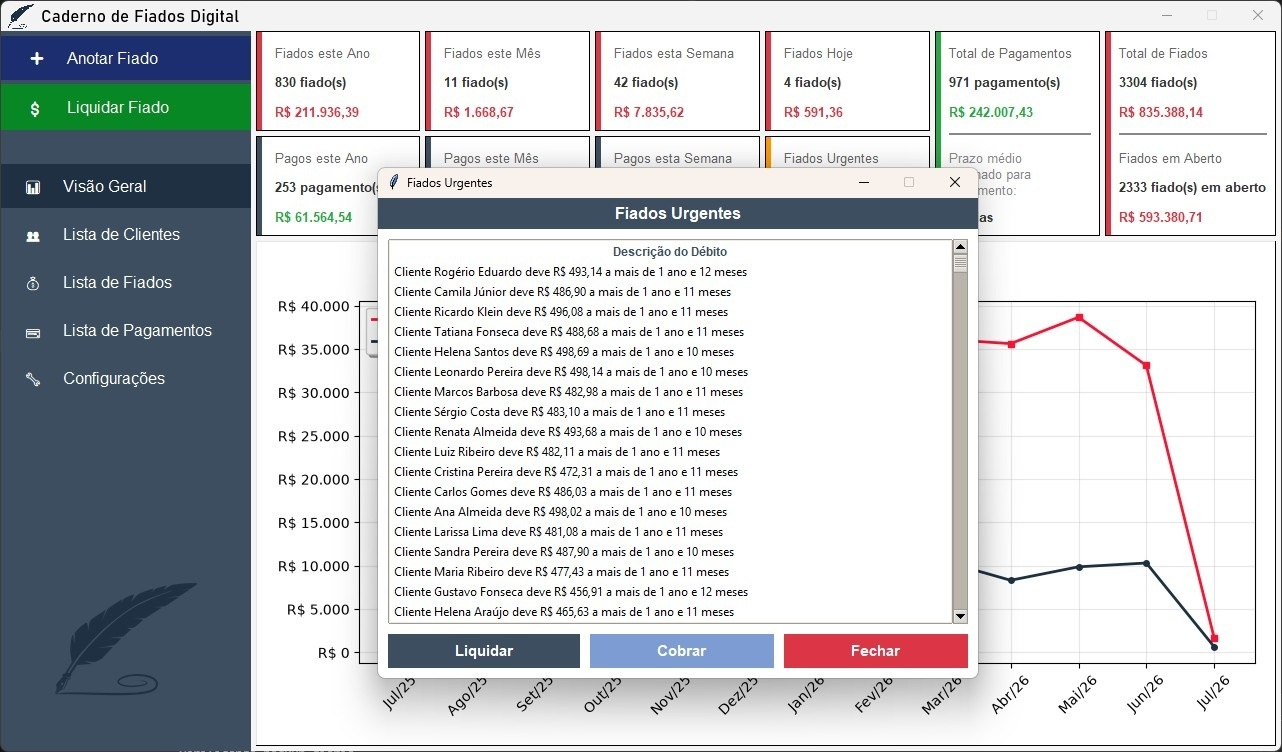
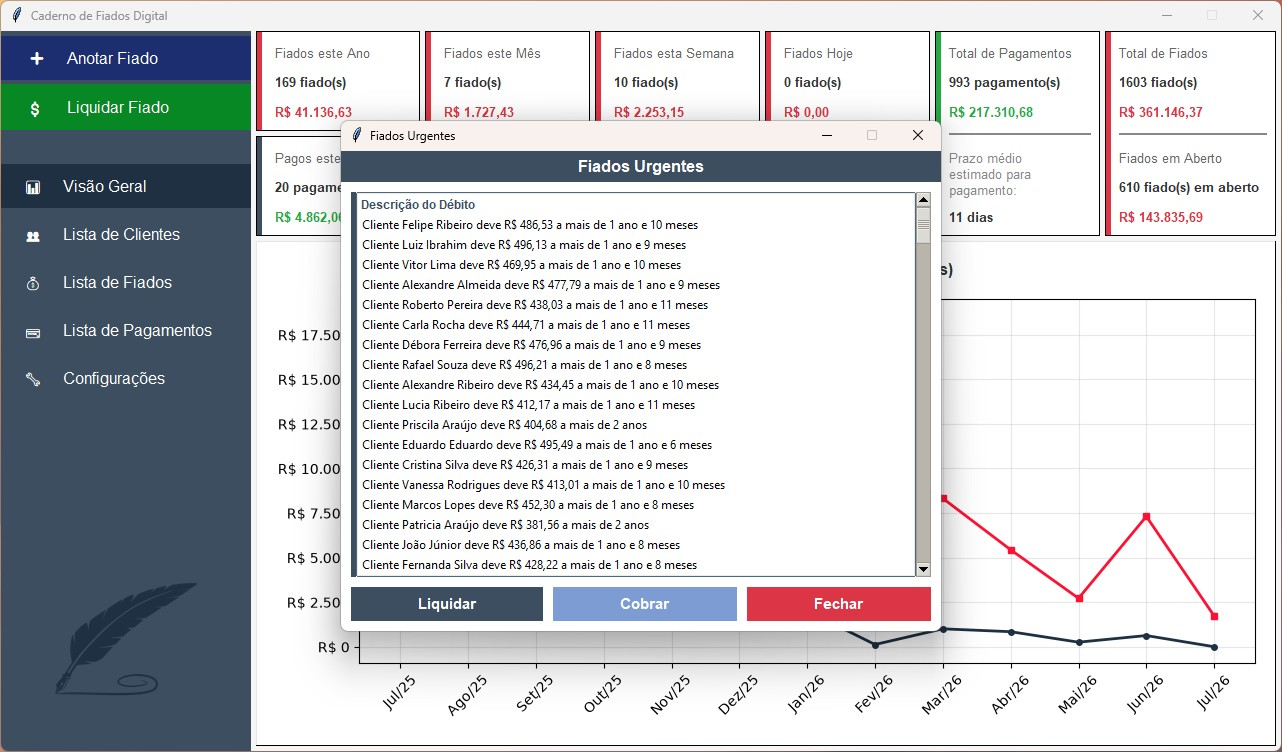
254

diff --git a/cadernodefiadosdigital/index.html b/cadernodefiadosdigital/index.html
@@ -275,7 +275,7 @@
 
     <section class="hero">
         <div class="hero-content">
-            <h1>Nunca mais perca dinheiro ao vender fiado.</h1>
+            <h1>Diga adeus ao caderninho.</h1>
             <p>Monitore dívidas, organize sua lista de clientes e envie cobranças pré-configuradas pelo WhatsApp e e-mail em poucos cliques. Simples, seguro e <span id="funciona-sem-internet" style="font-weight: bold; color: #28A745;">funciona sem internet</span>.</p>
             <div class="ctas">
                 <button class="btn btn-primary" onclick="baixarAplicativo()">Baixar Teste <img src="../imagens/windows.png" alt="Download" style="height: 20px; width: auto; margin-left: 10px;"></button>
@@ -289,21 +289,21 @@
 
     <section class="feature alternate">
         <div class="feature-text">
-            <h2>Gestão de Crediário Inteligente</h2>
-            <p>Registre um fiado, liquide total ou parcialmente, ou quite todos os débitos de um cliente de uma vez. Visualize tendências, gráficos e históricos.</p>
+            <h2>Cobranças Via WhatsApp e E-mail</h2>
+            <p>Clique duas vezes no número de celular ou e-mail para abrir o WhatsApp ou o Outlook com mensagem de cobrança automática, contendo dados do cliente e valor em aberto.</p>
             <div class="ctas">
                 <button class="btn btn-primary" onclick="baixarAplicativo()">Baixar Teste <img src="../imagens/windows.png" alt="Download" style="height: 20px; width: auto; margin-left: 10px;"></button>
                 <button class="btn btn-secondary" onclick="iniciarCompra()">Comprar Chave <img src="../imagens/carrinho.png" alt="Comprar" style="height: 20px; width: auto; margin-left: 10px;"></button>
             </div>
         </div>
-        <div class="feature-image"><img src="../imagens/lista_fiados.jpg" alt="Lista de Fiados"></div>
+        <div class="feature-image"><img src="../imagens/mensagem_cobranca.jpg" alt="Mensagem de Cobrança"></div>
     </section>
 
     <section class="feature">
-        <div class="feature-image"><img src="../imagens/mensagem_cobranca.jpg" alt="Mensagem de Cobrança"></div>
+        <div class="feature-image"><img src="../imagens/lista_fiados.jpg" alt="Lista de Fiados"></div>
         <div class="feature-text">
-            <h2>Cobranças Via WhatsApp e E-mail</h2>
-            <p>Clique duas vezes no número de celular ou e-mail para abrir o WhatsApp ou o Outlook com mensagem de cobrança automática, contendo dados do cliente e valor em aberto.</p>
+            <h2>Gestão de Crediário Inteligente</h2>
+            <p>Registre um fiado, liquide total ou parcialmente, ou quite todos os débitos de um cliente de uma vez. Visualize tendências, gráficos e históricos.</p>
             <div class="ctas">
                 <button class="btn btn-primary" onclick="baixarAplicativo()">Baixar Teste <img src="../imagens/windows.png" alt="Download" style="height: 20px; width: auto; margin-left: 10px;"></button>
                 <button class="btn btn-secondary" onclick="iniciarCompra()">Comprar Chave <img src="../imagens/carrinho.png" alt="Comprar" style="height: 20px; width: auto; margin-left: 10px;"></button>
@@ -312,6 +312,7 @@
     </section>
 
     <section class="feature alternate" style="background-color: #fff9e6;">
+        <div class="feature-image"><img src="../imagens/bom_pagador.png" alt="Selo Bom Pagador"></div>
         <div class="feature-text">
             <h2>Selo Bom Pagador</h2>
             <p>Reconheça os bons pagadores. Atribua o "Selo Bom Pagador" manualmente ou deixe que o sistema atribua automaticamente conforme critérios configuráveis.</p>
@@ -321,6 +322,18 @@
             </div>
         </div>
         <div class="feature-image trophy-large">🏆</div>
+    </section>
+
+    <section class="feature alternate">
+        <div class="feature-image"><img src="../imagens/estatisticas.png" alt="Relatórios e Estatísticas"></div>
+        <div class="feature-text">
+            <h2>Relatórios e Estatísticas</h2>
+            <p>O sistema gera relatórios e estatísticas detalhadas sobre suas vendas a prazo, ajudando você a tomar decisões informadas sobre seu negócio.</p>
+            <div class="ctas">
+                <button class="btn btn-primary" onclick="baixarAplicativo()">Baixar Teste <img src="../imagens/windows.png" alt="Download" style="height: 20px; width: auto; margin-left: 10px;"></button>
+                <button class="btn btn-secondary" onclick="iniciarCompra()">Comprar Chave <img src="../imagens/carrinho.png" alt="Comprar" style="height: 20px; width: auto; margin-left: 10px;"></button>
+            </div>
+        </div>
     </section>
 
     <section class="feature">
@@ -335,11 +348,36 @@
         <div class="feature-image"><img src="../imagens/fiados_urgentes.jpg" alt="Alertas de Fiados Urgentes"></div>
     </section>
 
-    <section class="feature alternate">
-        <div class="feature-image"><img src="../imagens/configuracoes.jpg" alt="Configurações e Backup"></div>
+    <section class="feature alternate" style="background-color: #fff9e6;">
+        <div class="feature-image trophy-large">🛠</div>
         <div class="feature-text">
             <h2>Segurança com Backup e Restauração</h2>
             <p>Seus dados são armazenados localmente em SQLite, garantindo conformidade LGPD. Realize backups e restaurações facilmente e nunca perca seu histórico de vendas fiado.</p>
+            <div class="ctas">
+                <button class="btn btn-primary" onclick="baixarAplicativo()">Baixar Teste <img src="../imagens/windows.png" alt="Download" style="height: 20px; width: auto; margin-left: 10px;"></button>
+                <button class="btn btn-secondary" onclick="iniciarCompra()">Comprar Chave <img src="../imagens/carrinho.png" alt="Comprar" style="height: 20px; width: auto; margin-left: 10px;"></button>
+            </div>
+        </div>
+        <div class="feature-image"><img src="../imagens/configuracoes.jpg" alt="Configurações e Backup"></div>
+    </section>
+
+    <section class="feature alternate">
+        <div class="feature-text">
+            <h2>Acessibilidade</h2>
+            <p>Qualquer pessoa pode usar o aplicativo. Funciona inteiramente com ou sem mouse, em telas HD, Full HD, e 4K. Sistema intuitivo e fácil de usar.</p>
+            <div class="ctas">
+                <button class="btn btn-primary" onclick="baixarAplicativo()">Baixar Teste <img src="../imagens/windows.png" alt="Download" style="height: 20px; width: auto; margin-left: 10px;"></button>
+                <button class="btn btn-secondary" onclick="iniciarCompra()">Comprar Chave <img src="../imagens/carrinho.png" alt="Comprar" style="height: 20px; width: auto; margin-left: 10px;"></button>
+            </div>
+        </div>
+        <div class="feature-image"><img src="../imagens/acessibilidade.png" alt="Acessibilidade"></div>
+    </section>
+
+    <section class="feature">
+    <div class="feature-image"><img src="../imagens/internet.png" alt="Funciona sem Internet"></div>
+        <div class="feature-text">
+            <h2>Funciona sem Internet</h2>
+            <p>O aplicativo funciona totalmente offline. Nenhuma necessidade de conexão com a internet para registrar fiados, gerenciar clientes ou visualizar relatórios.</p>
             <div class="ctas">
                 <button class="btn btn-primary" onclick="baixarAplicativo()">Baixar Teste <img src="../imagens/windows.png" alt="Download" style="height: 20px; width: auto; margin-left: 10px;"></button>
                 <button class="btn btn-secondary" onclick="iniciarCompra()">Comprar Chave <img src="../imagens/carrinho.png" alt="Comprar" style="height: 20px; width: auto; margin-left: 10px;"></button>
